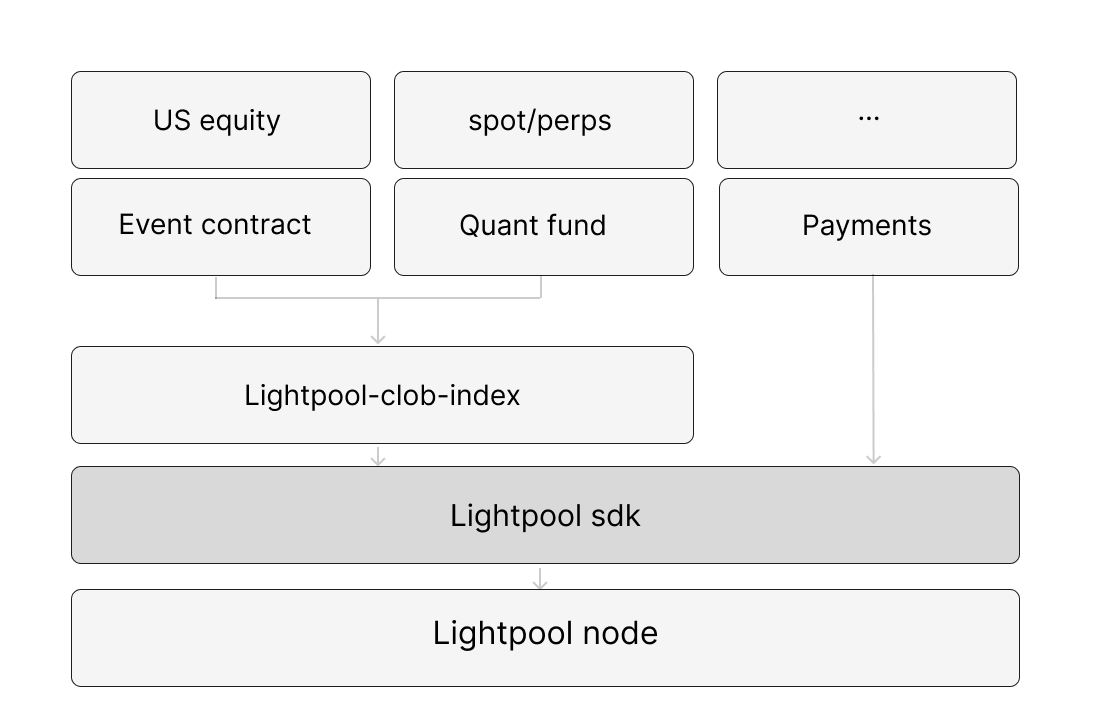
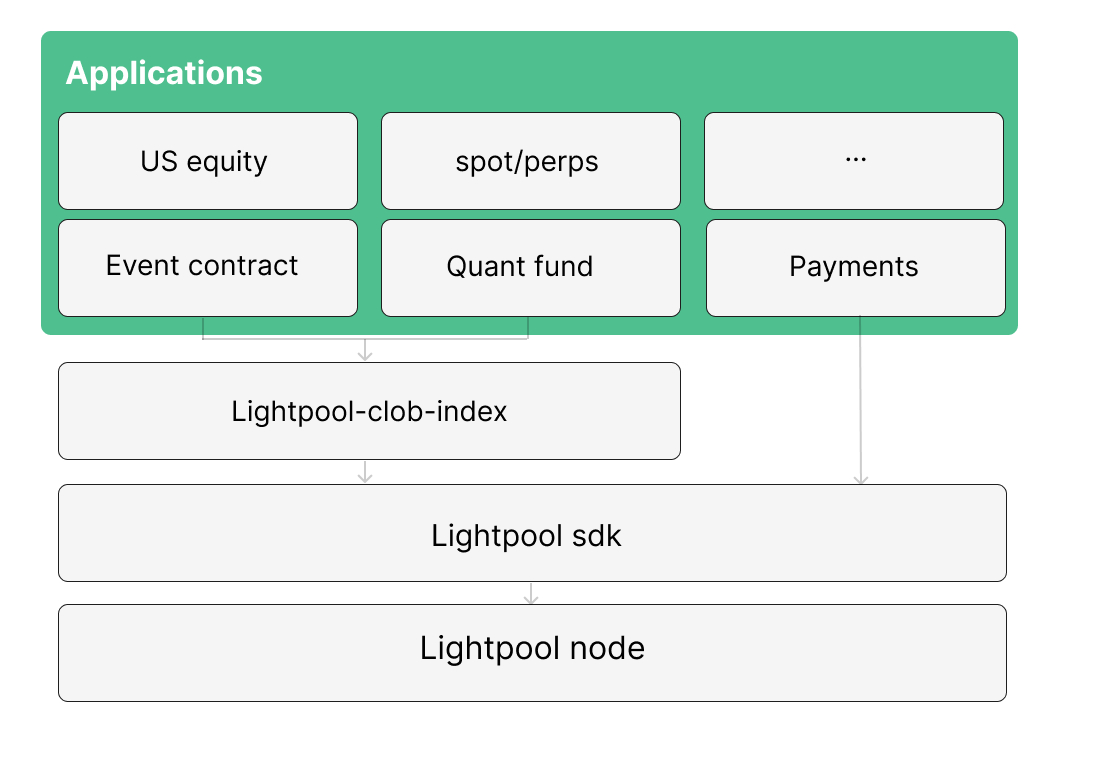
update arch

diff --git a/README.md b/README.md
@@ -6,7 +6,7 @@ Rust SDK for interacting with the LightPool blockchain.
 
 ![LightPool SDK architecture](doc/arch.jpg)
 
-Application => index => sdk => node
+Applications => index => sdk => node
 
 ## Prerequisites
 
